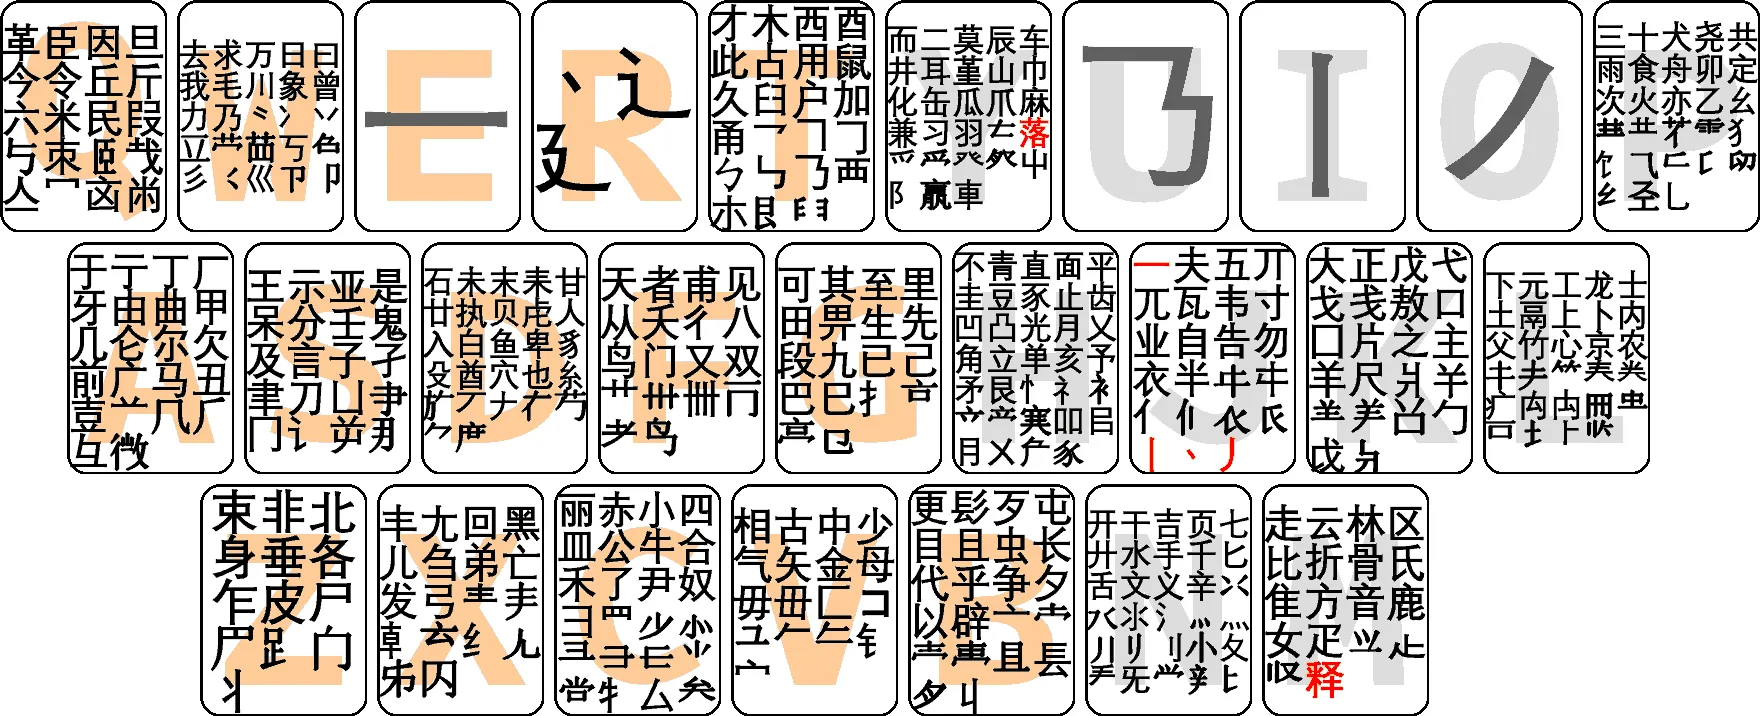
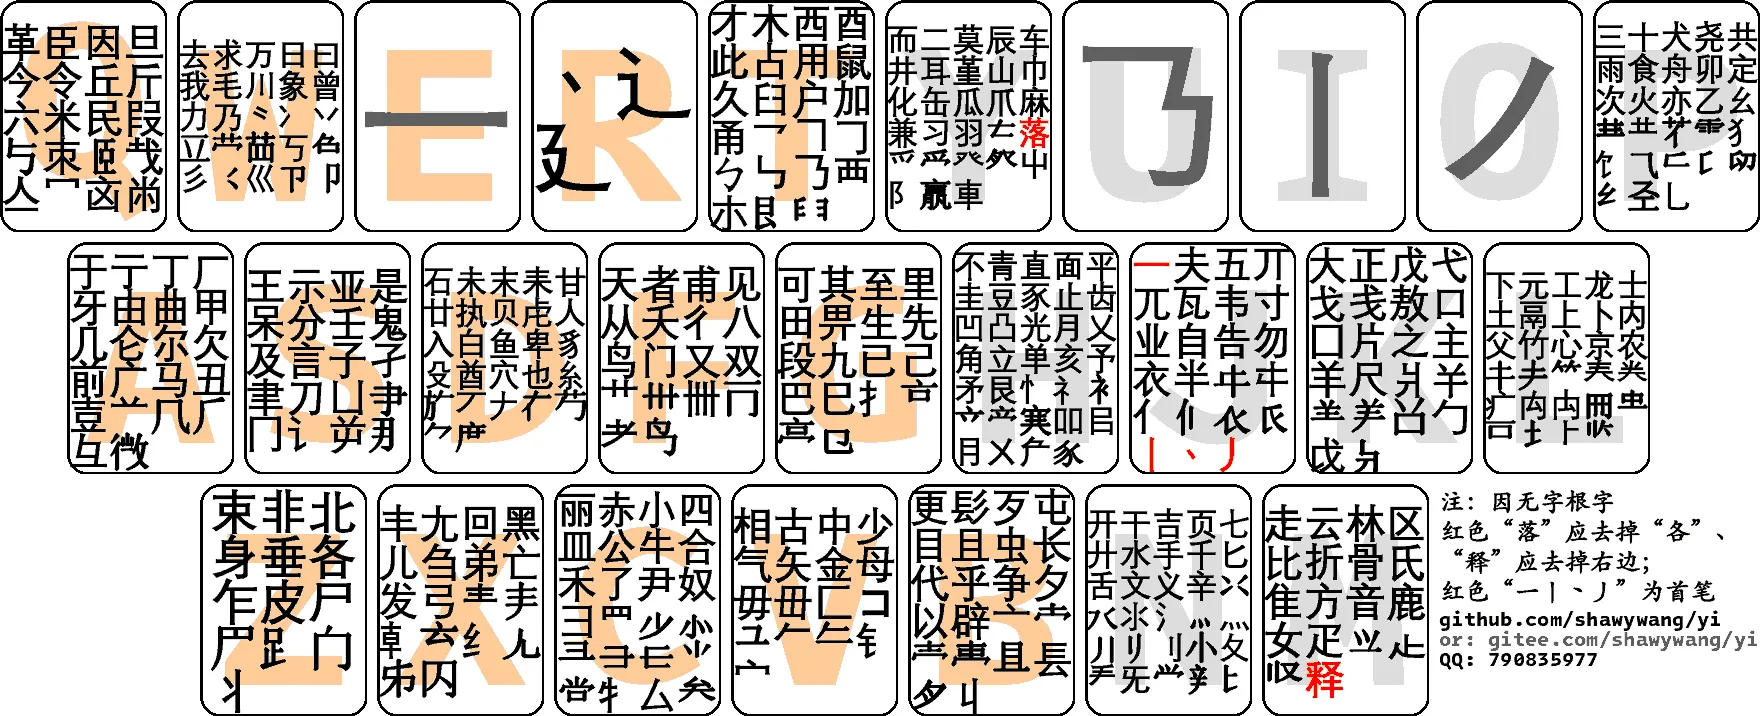
加备注

Changed region(s): [[0.8125, 0.676, 1.0, 0.9525]]

diff --git a/字根画26键.py b/字根画26键.py
@@ -1,6 +1,6 @@
 from typing import Dict
 
-from PIL import Image, ImageDraw
+from PIL import Image, ImageDraw, ImageFont
 
 key_images: str = "qwertyuiopasdfghjklzxcvbnm"
 
@@ -38,6 +38,18 @@ class Handle:
                 x_offset += (key_width + padding)
             y_offset += (key_height + padding)
 
+        # 宽1439，高484
+        # 加备注文字
+        n_x = round(key_width * 1.2) + 7 * (key_width + padding)
+        n_y = 2 * (key_height + padding)
+        n_font1 = ImageFont.truetype(font=r"C:\Users\wangxiao\AppData\Local\Microsoft\Windows\Fonts\华文楷体粗.ttf", size=25)
+        n_font2 = ImageFont.truetype(font=r"C:\Users\wangxiao\AppData\Local\Microsoft\Windows\Fonts\IntelOneMono-Bold.ttf", size=20)
+
+        draw.text(xy=(n_x, n_y), text="注：因无字根字\n红色“落”应去掉“各”、\n“释”应去掉右边；\n红色“一丨丶丿”为首笔", fill="black", font=n_font1)
+        draw.text(xy=(n_x, n_y + 120), text="github.com/shawywang/yi", fill=(0, 0, 0), font=n_font2)
+        draw.text(xy=(n_x, n_y + 140), text="or: gitee.com/shawywang/yi", fill=(95, 95, 95), font=n_font2)
+        draw.text(xy=(n_x, n_y + 160), text="QQ: 790835977", fill=(0, 0, 0), font=n_font2)
+
         # 保存
         palette_img = Image.new("P", (1, 1))  # 调色板
         palette_img.putpalette(
@@ -52,7 +64,7 @@ class Handle:
         )
         fixed_image = keyboard_image.quantize(palette=palette_img, dither=Image.Dither.NONE)
         fixed_image.save(
-            fp="C:\\Users\\wangxiao\\Downloads\\keyboard.webp",
+            fp="C:\\Users\\wangxiao\\Downloads\\字根图（PIL生成）.webp",
             optimize=True,
             compress_level=5,
             dpi=(72, 72),
